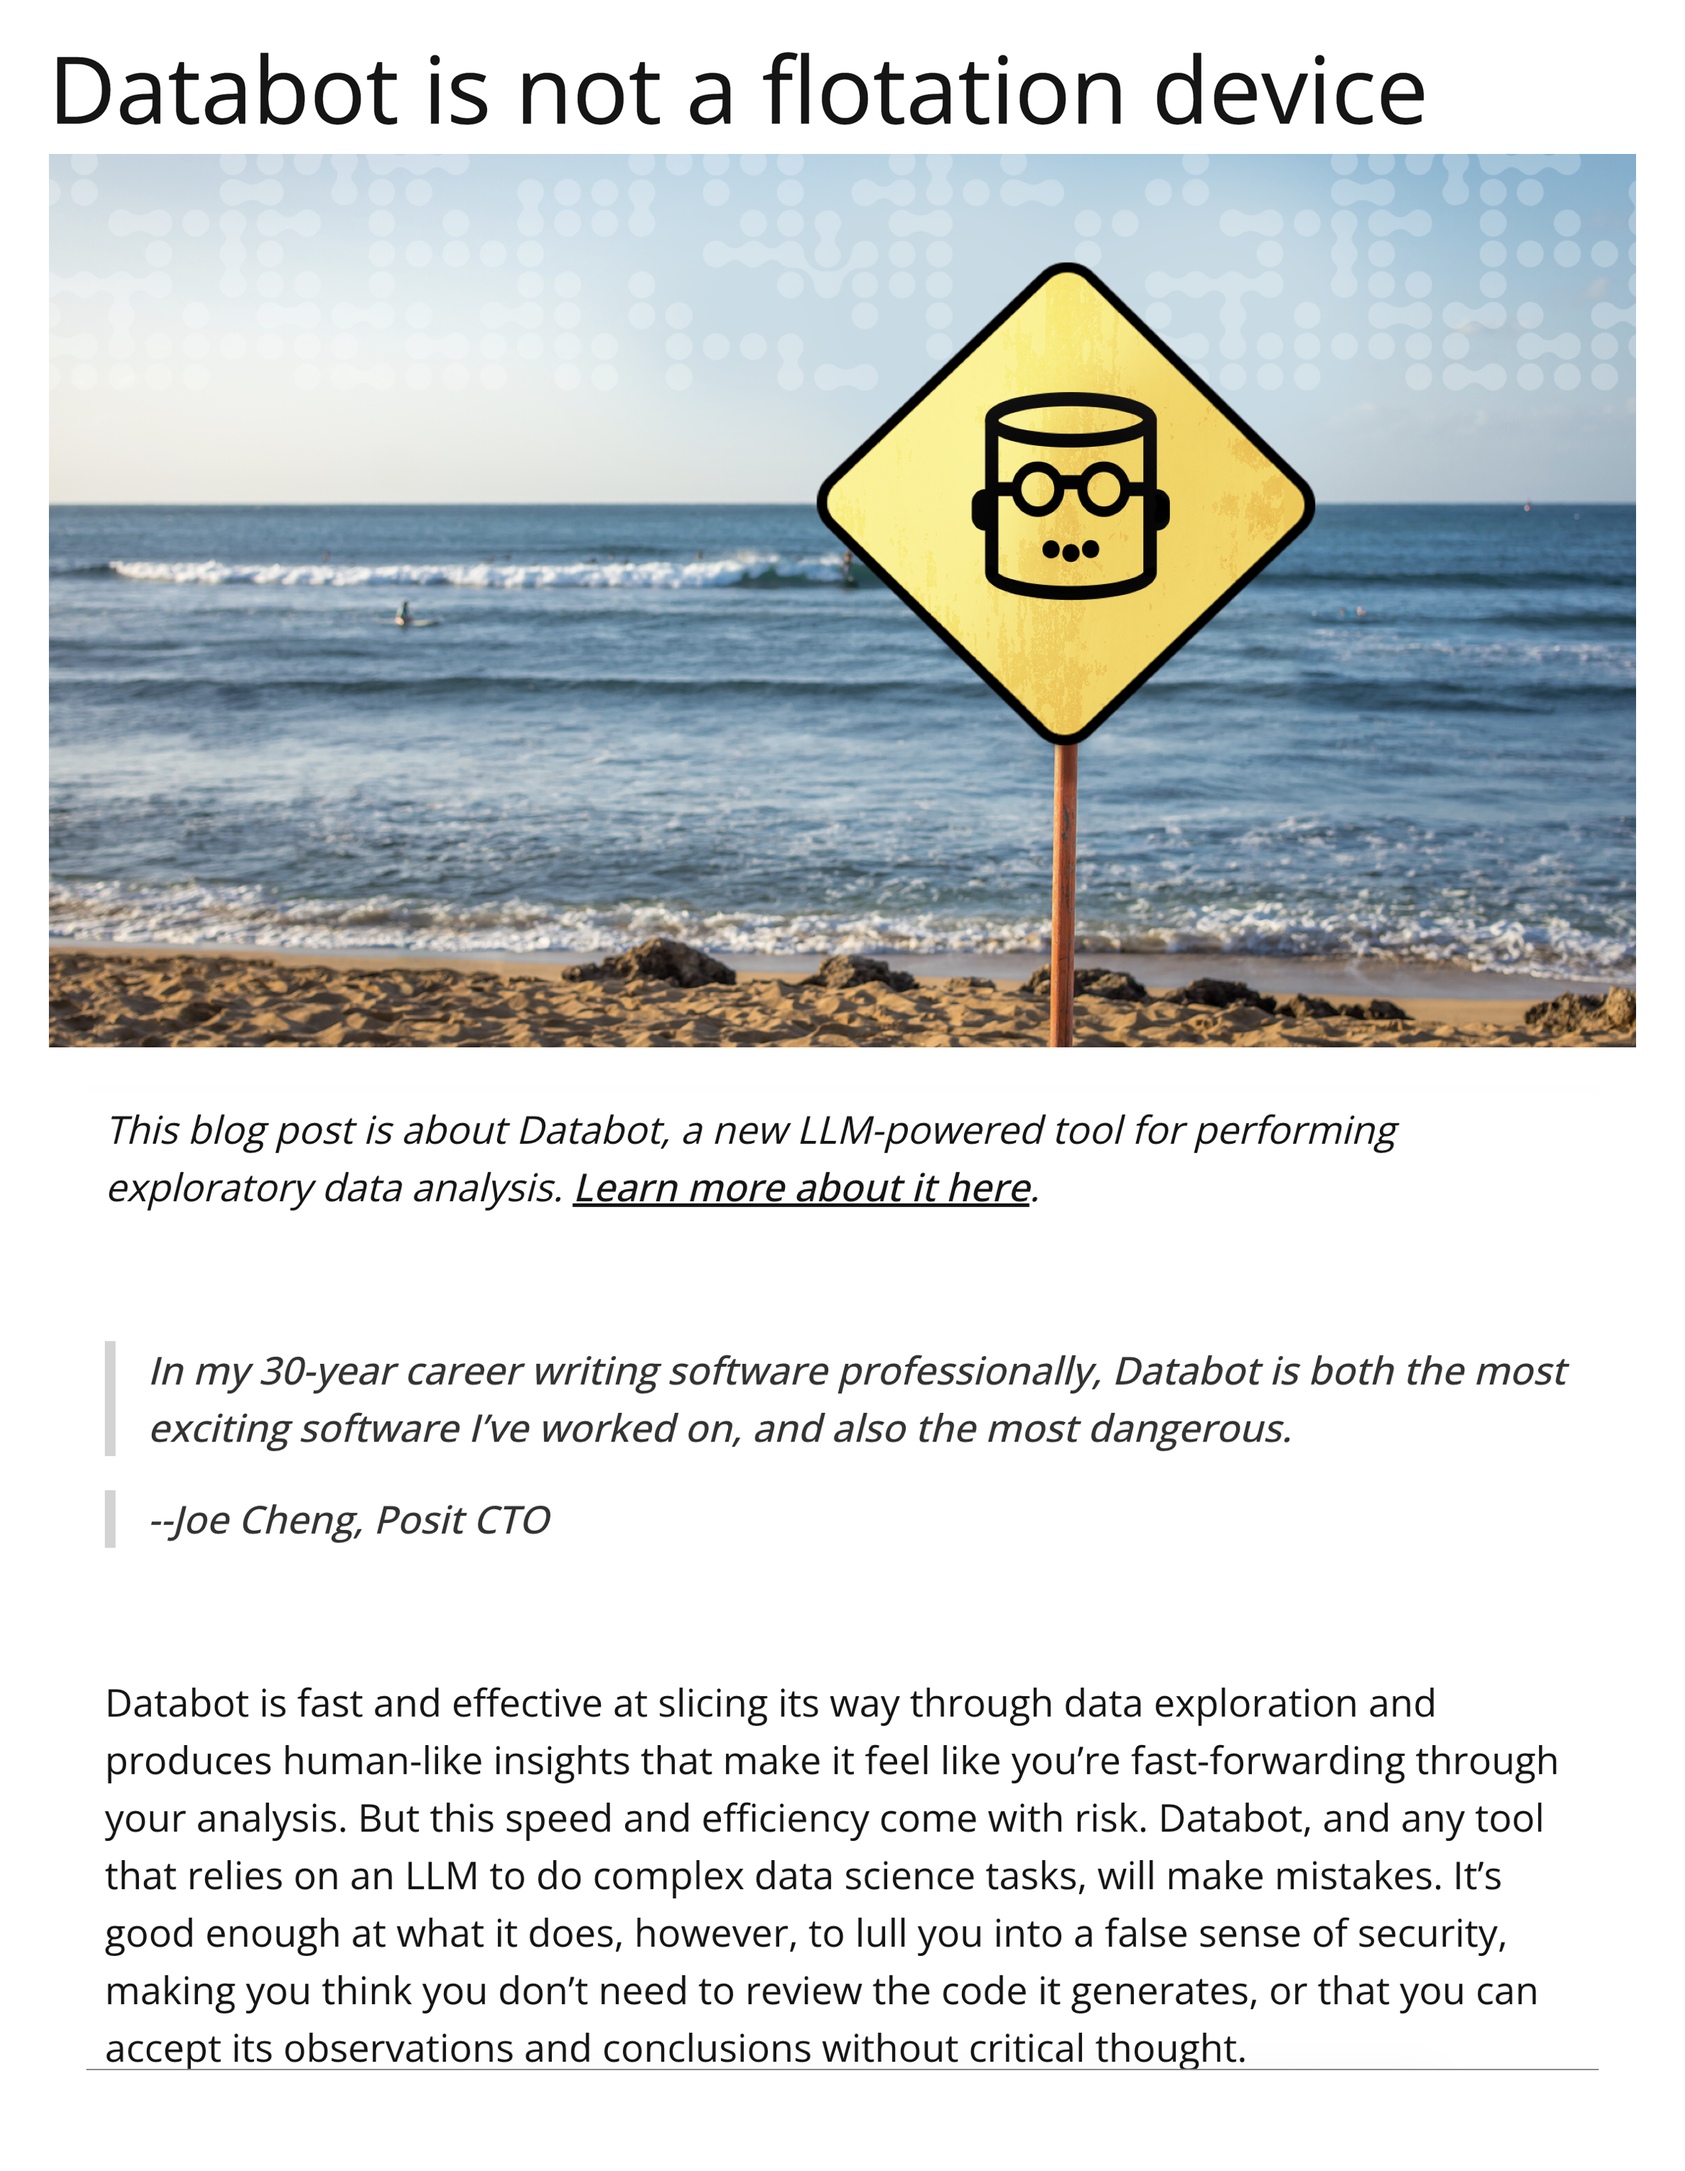
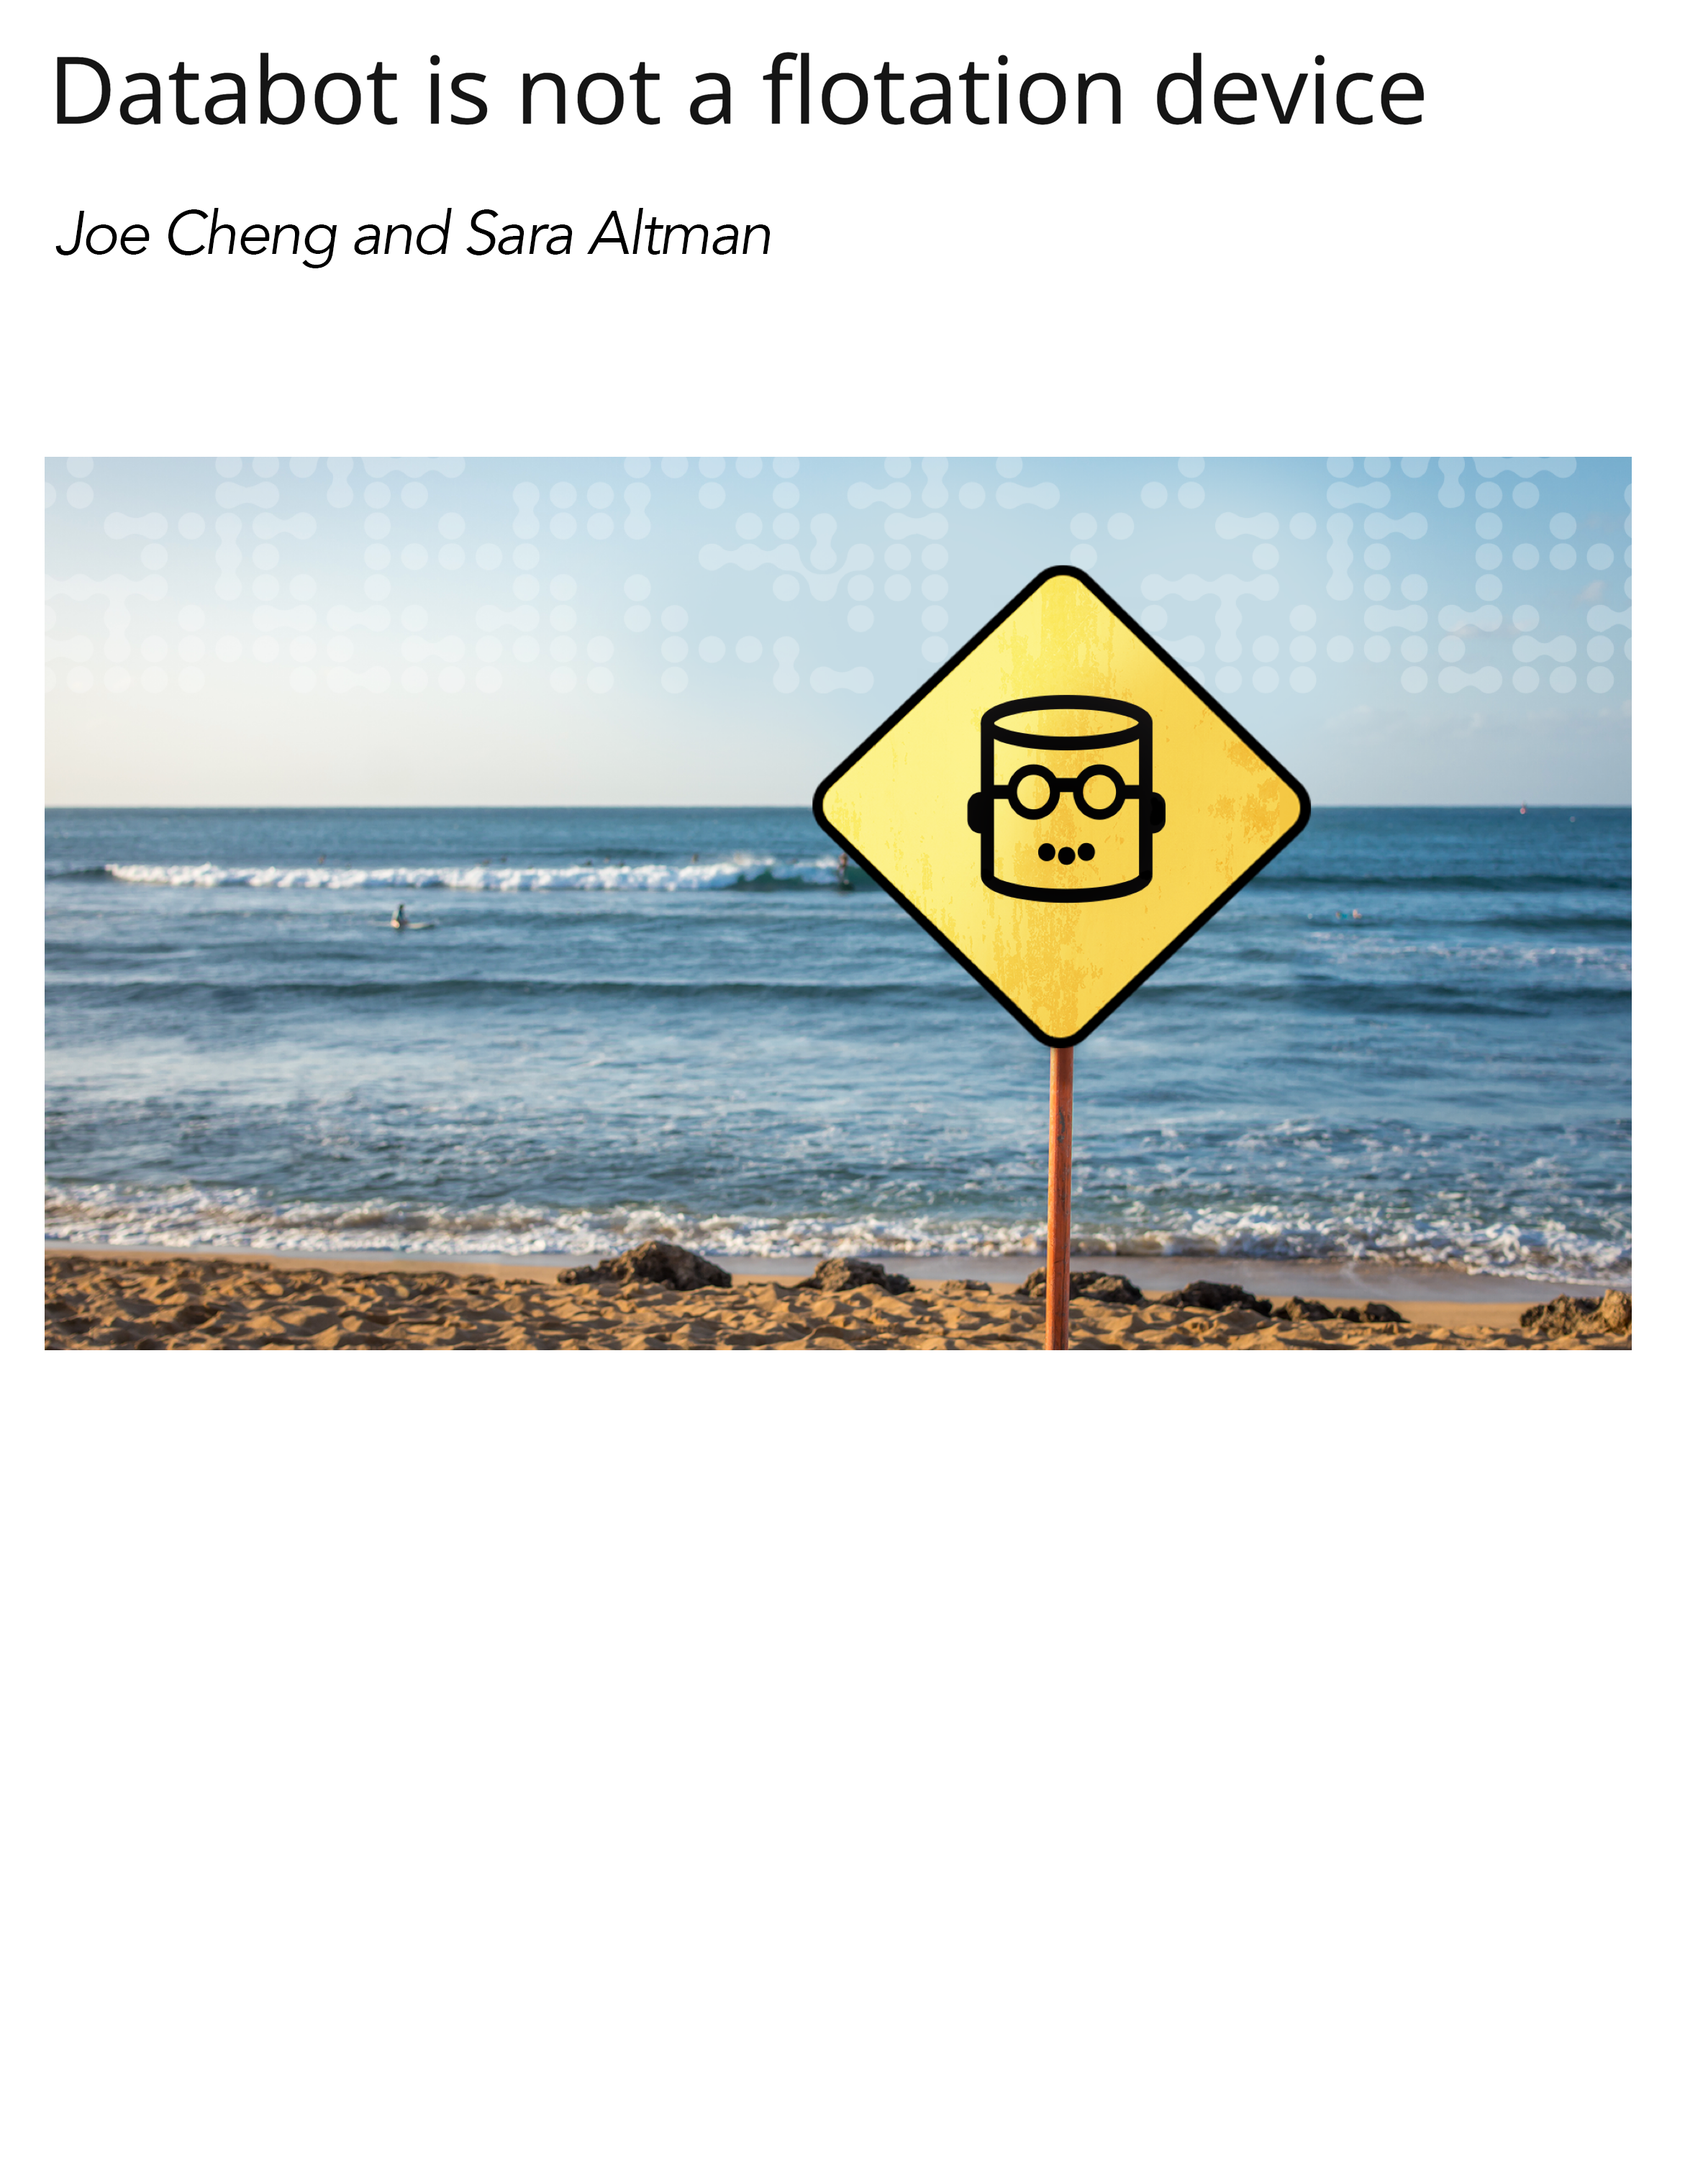
simplify databot screenshot (#55)

diff --git a/docs/index.html b/docs/index.html
@@ -6,8 +6,8 @@
 <script src="site_libs/quarto-html/tippy.umd.min.js"></script>
 <link href="site_libs/quarto-html/tippy.css" rel="stylesheet">
 <link href="site_libs/quarto-html/light-border.css" rel="stylesheet">
-<link href="site_libs/quarto-html/quarto-syntax-highlighting-15634bcf2e68342d4ad2dfa704d543f6.css" rel="stylesheet" id="quarto-text-highlighting-styles"><meta charset="utf-8">
-  <meta name="generator" content="quarto-1.9.38">
+<link href="site_libs/quarto-html/quarto-syntax-highlighting-64a204ab8560d761af7679ceaba22944.css" rel="stylesheet" id="quarto-text-highlighting-styles"><meta charset="utf-8">
+  <meta name="generator" content="quarto-1.10.18">
 
   <title>index</title>
   <meta name="apple-mobile-web-app-capable" content="yes">
@@ -19,10 +19,13 @@
     /* Default styles provided by pandoc.
     ** See https://pandoc.org/MANUAL.html#variables-for-html for config info.
     */
-    code{white-space: pre-wrap;}
     span.smallcaps{font-variant: small-caps;}
-    div.columns{display: flex; gap: min(4vw, 1.5em);}
-    div.column{flex: auto; overflow-x: auto;}
+    div.columns{display: flex; gap: 1.5em;}
+    div.column{flex: auto;}
+    @media screen {
+    div.columns{gap: min(4vw, 1.5em);}
+    div.column{overflow-x: auto;}
+    }
     div.hanging-indent{margin-left: 1.5em; text-indent: -1.5em;}
     ul.task-list{list-style: none;}
     ul.task-list li input[type="checkbox"] {
@@ -325,7 +328,7 @@
 <blockquote>
 <p>In the battle between convenience and correctness, convenience is winning.</p>
 <footer>
-Joe Cheng, CTO @ Posit
+Joe Cheng (CTO @ Posit)
 </footer>
 </blockquote>
 <aside class="notes">
@@ -418,7 +421,7 @@ Joe Cheng, CTO @ Posit
 <p><br></p>
 <p>At the same time, we want RStudio to be as <span class="accent">straightforward and intuitive</span> as possible.</p>
 <footer>
-JJ Allaire, 2011
+JJ Allaire (Founder @ Posit), 2011
 </footer>
 </blockquote>
 <div class="footer">
@@ -1484,7 +1487,7 @@ Photo: Lars von Ritter Zahony / Ocean Image Bank
 </div>
 <div class="lifecycle-card fragment fade-up">
 <h3 id="improve">Improve</h3>
-<p>You review the agent’s behavior, adding trusted code to move responses up the trust ladder.</p>
+<p>You review the agent’s behavior, adding trusted code to cover common use cases.</p>
 </div>
 </div>
 <aside class="notes">
